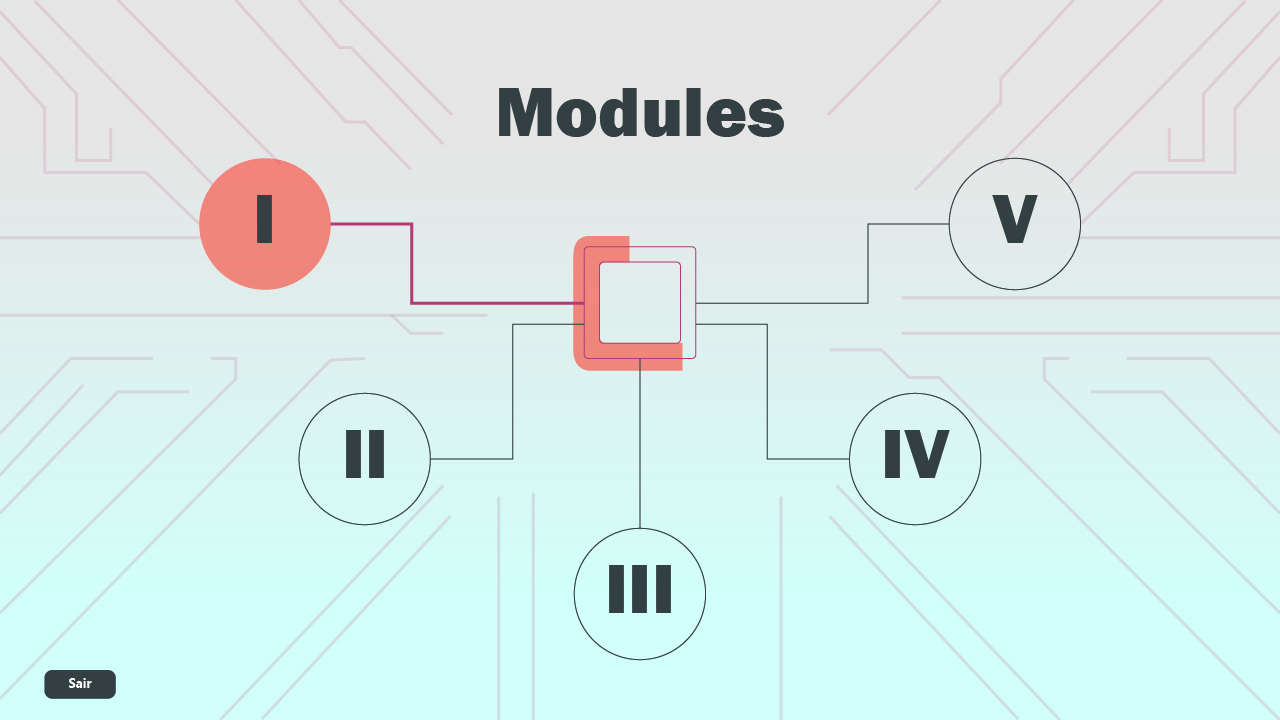
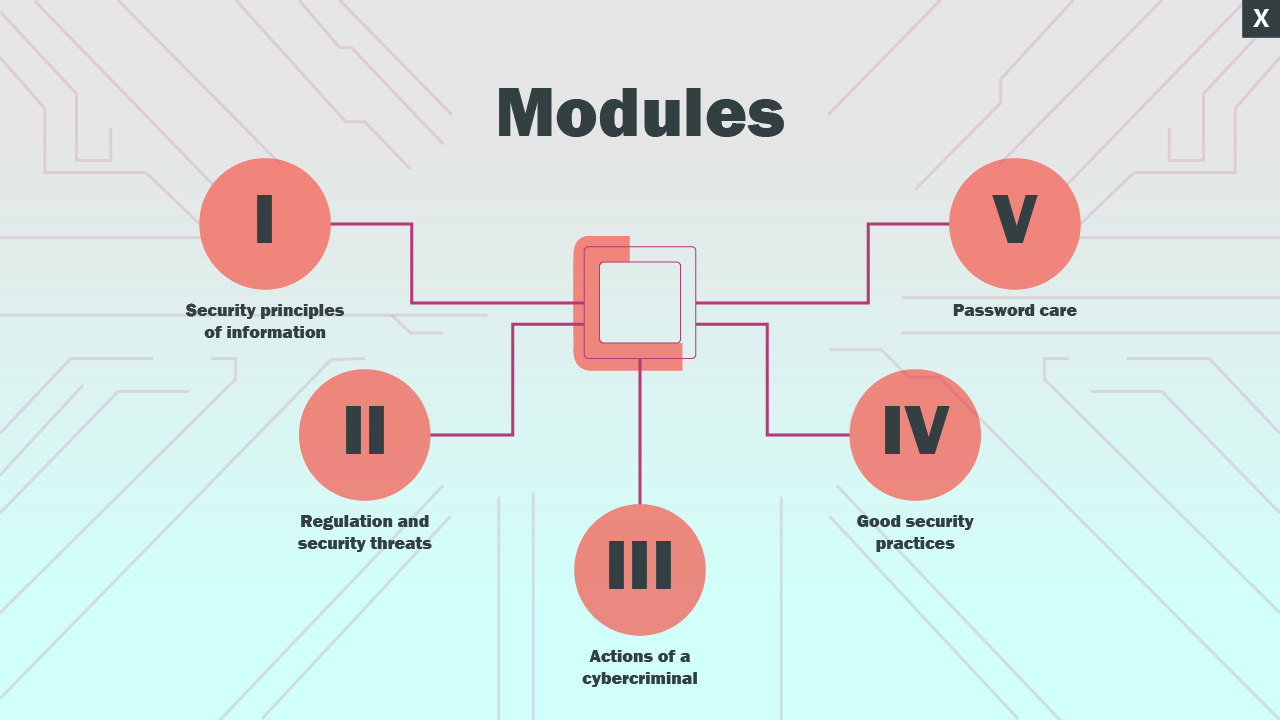
add module 01

diff --git a/TrinketDigitalSecurity/F_Menu_Modules.Designer.cs b/TrinketDigitalSecurity/F_Menu_Modules.Designer.cs
@@ -1,6 +1,6 @@
 namespace TrinketDigitalSecurity
 {
-    partial class F_Intro
+    partial class F_Menu_Modules
     {
         /// <summary>
         /// Required designer variable.
@@ -28,9 +28,26 @@
         /// </summary>
         private void InitializeComponent()
         {
+            System.ComponentModel.ComponentResourceManager resources = new System.ComponentModel.ComponentResourceManager(typeof(F_Menu_Modules));
+            this.btn_module_one = new System.Windows.Forms.Button();
             this.btn_exit = new System.Windows.Forms.Button();
-            this.btn_next = new System.Windows.Forms.Button();
             this.SuspendLayout();
+            // 
+            // btn_module_one
+            // 
+            this.btn_module_one.BackColor = System.Drawing.Color.Transparent;
+            this.btn_module_one.Cursor = System.Windows.Forms.Cursors.Hand;
+            this.btn_module_one.FlatAppearance.BorderSize = 0;
+            this.btn_module_one.FlatAppearance.MouseDownBackColor = System.Drawing.Color.Transparent;
+            this.btn_module_one.FlatAppearance.MouseOverBackColor = System.Drawing.Color.Transparent;
+            this.btn_module_one.FlatStyle = System.Windows.Forms.FlatStyle.Flat;
+            this.btn_module_one.ForeColor = System.Drawing.Color.Transparent;
+            this.btn_module_one.Location = new System.Drawing.Point(193, 151);
+            this.btn_module_one.Name = "btn_module_one";
+            this.btn_module_one.Size = new System.Drawing.Size(146, 149);
+            this.btn_module_one.TabIndex = 4;
+            this.btn_module_one.UseVisualStyleBackColor = false;
+            this.btn_module_one.Click += new System.EventHandler(this.btn_module_one_Click);
             // 
             // btn_exit
             // 
@@ -41,39 +58,23 @@
             this.btn_exit.FlatAppearance.MouseOverBackColor = System.Drawing.Color.Transparent;
             this.btn_exit.FlatStyle = System.Windows.Forms.FlatStyle.Flat;
             this.btn_exit.ForeColor = System.Drawing.Color.Transparent;
-            this.btn_exit.Location = new System.Drawing.Point(1235, 1);
+            this.btn_exit.Location = new System.Drawing.Point(1236, 0);
             this.btn_exit.Name = "btn_exit";
             this.btn_exit.Size = new System.Drawing.Size(45, 41);
-            this.btn_exit.TabIndex = 2;
+            this.btn_exit.TabIndex = 5;
             this.btn_exit.UseVisualStyleBackColor = false;
             this.btn_exit.Click += new System.EventHandler(this.btn_exit_Click);
             // 
-            // btn_next
-            // 
-            this.btn_next.BackColor = System.Drawing.Color.Transparent;
-            this.btn_next.Cursor = System.Windows.Forms.Cursors.Hand;
-            this.btn_next.FlatAppearance.BorderSize = 0;
-            this.btn_next.FlatAppearance.MouseDownBackColor = System.Drawing.Color.Transparent;
-            this.btn_next.FlatAppearance.MouseOverBackColor = System.Drawing.Color.Transparent;
-            this.btn_next.FlatStyle = System.Windows.Forms.FlatStyle.Flat;
-            this.btn_next.ForeColor = System.Drawing.Color.Transparent;
-            this.btn_next.Location = new System.Drawing.Point(820, 601);
-            this.btn_next.Name = "btn_next";
-            this.btn_next.Size = new System.Drawing.Size(174, 51);
-            this.btn_next.TabIndex = 3;
-            this.btn_next.UseVisualStyleBackColor = false;
-            this.btn_next.Click += new System.EventHandler(this.btn_next_Click);
-            // 
-            // F_Intro
+            // F_Menu_Modules
             // 
             this.AutoScaleDimensions = new System.Drawing.SizeF(7F, 15F);
             this.AutoScaleMode = System.Windows.Forms.AutoScaleMode.Font;
-            this.BackgroundImage = global::TrinketDigitalSecurity.Properties.Resources.Prancheta_2_100;
             this.ClientSize = new System.Drawing.Size(1280, 720);
-            this.Controls.Add(this.btn_next);
             this.Controls.Add(this.btn_exit);
+            this.Controls.Add(this.btn_module_one);
             this.FormBorderStyle = System.Windows.Forms.FormBorderStyle.None;
-            this.Name = "F_Intro";
+            this.Icon = ((System.Drawing.Icon)(resources.GetObject("$this.Icon")));
+            this.Name = "F_Menu_Modules";
             this.StartPosition = System.Windows.Forms.FormStartPosition.CenterScreen;
             this.Text = "F_Menu_Modules";
             this.ResumeLayout(false);
@@ -82,7 +83,7 @@
 
         #endregion
 
+        private Button btn_module_one;
         private Button btn_exit;
-        private Button btn_next;
     }
 }

diff --git a/TrinketDigitalSecurity/F_M_One_01.Designer.cs b/TrinketDigitalSecurity/F_M_One_01.Designer.cs
@@ -1,6 +1,6 @@
 namespace TrinketDigitalSecurity
 {
-    partial class F_Intro
+    partial class F_M_One_01
     {
         /// <summary>
         /// Required designer variable.
@@ -29,6 +29,7 @@
         private void InitializeComponent()
         {
             this.btn_exit = new System.Windows.Forms.Button();
+            this.btn_back = new System.Windows.Forms.Button();
             this.btn_next = new System.Windows.Forms.Button();
             this.SuspendLayout();
             // 
@@ -41,12 +42,28 @@
             this.btn_exit.FlatAppearance.MouseOverBackColor = System.Drawing.Color.Transparent;
             this.btn_exit.FlatStyle = System.Windows.Forms.FlatStyle.Flat;
             this.btn_exit.ForeColor = System.Drawing.Color.Transparent;
-            this.btn_exit.Location = new System.Drawing.Point(1235, 1);
+            this.btn_exit.Location = new System.Drawing.Point(1235, 0);
             this.btn_exit.Name = "btn_exit";
             this.btn_exit.Size = new System.Drawing.Size(45, 41);
-            this.btn_exit.TabIndex = 2;
+            this.btn_exit.TabIndex = 6;
             this.btn_exit.UseVisualStyleBackColor = false;
             this.btn_exit.Click += new System.EventHandler(this.btn_exit_Click);
+            // 
+            // btn_back
+            // 
+            this.btn_back.BackColor = System.Drawing.Color.Transparent;
+            this.btn_back.Cursor = System.Windows.Forms.Cursors.Hand;
+            this.btn_back.FlatAppearance.BorderSize = 0;
+            this.btn_back.FlatAppearance.MouseDownBackColor = System.Drawing.Color.Transparent;
+            this.btn_back.FlatAppearance.MouseOverBackColor = System.Drawing.Color.Transparent;
+            this.btn_back.FlatStyle = System.Windows.Forms.FlatStyle.Flat;
+            this.btn_back.ForeColor = System.Drawing.Color.Transparent;
+            this.btn_back.Location = new System.Drawing.Point(12, 316);
+            this.btn_back.Name = "btn_back";
+            this.btn_back.Size = new System.Drawing.Size(55, 95);
+            this.btn_back.TabIndex = 7;
+            this.btn_back.UseVisualStyleBackColor = false;
+            this.btn_back.Click += new System.EventHandler(this.btn_back_Click);
             // 
             // btn_next
             // 
@@ -57,25 +74,26 @@
             this.btn_next.FlatAppearance.MouseOverBackColor = System.Drawing.Color.Transparent;
             this.btn_next.FlatStyle = System.Windows.Forms.FlatStyle.Flat;
             this.btn_next.ForeColor = System.Drawing.Color.Transparent;
-            this.btn_next.Location = new System.Drawing.Point(820, 601);
+            this.btn_next.Location = new System.Drawing.Point(1190, 316);
             this.btn_next.Name = "btn_next";
-            this.btn_next.Size = new System.Drawing.Size(174, 51);
-            this.btn_next.TabIndex = 3;
+            this.btn_next.Size = new System.Drawing.Size(55, 95);
+            this.btn_next.TabIndex = 8;
             this.btn_next.UseVisualStyleBackColor = false;
             this.btn_next.Click += new System.EventHandler(this.btn_next_Click);
             // 
-            // F_Intro
+            // F_M_One_01
             // 
             this.AutoScaleDimensions = new System.Drawing.SizeF(7F, 15F);
             this.AutoScaleMode = System.Windows.Forms.AutoScaleMode.Font;
-            this.BackgroundImage = global::TrinketDigitalSecurity.Properties.Resources.Prancheta_2_100;
+            this.BackgroundImage = global::TrinketDigitalSecurity.Properties.Resources.Prancheta_4_100;
             this.ClientSize = new System.Drawing.Size(1280, 720);
             this.Controls.Add(this.btn_next);
+            this.Controls.Add(this.btn_back);
             this.Controls.Add(this.btn_exit);
             this.FormBorderStyle = System.Windows.Forms.FormBorderStyle.None;
-            this.Name = "F_Intro";
+            this.Name = "F_M_One_01";
             this.StartPosition = System.Windows.Forms.FormStartPosition.CenterScreen;
-            this.Text = "F_Menu_Modules";
+            this.Text = "F_M_One_01";
             this.ResumeLayout(false);
 
         }
@@ -83,6 +101,7 @@
         #endregion
 
         private Button btn_exit;
+        private Button btn_back;
         private Button btn_next;
     }
 }

diff --git a/TrinketDigitalSecurity/F_M_One_02.Designer.cs b/TrinketDigitalSecurity/F_M_One_02.Designer.cs
@@ -1,0 +1,39 @@
+namespace TrinketDigitalSecurity
+{
+    partial class F_M_One_02
+    {
+        /// <summary>
+        /// Required designer variable.
+        /// </summary>
+        private System.ComponentModel.IContainer components = null;
+
+        /// <summary>
+        /// Clean up any resources being used.
+        /// </summary>
+        /// <param name="disposing">true if managed resources should be disposed; otherwise, false.</param>
+        protected override void Dispose(bool disposing)
+        {
+            if (disposing && (components != null))
+            {
+                components.Dispose();
+            }
+            base.Dispose(disposing);
+        }
+
+        #region Windows Form Designer generated code
+
+        /// <summary>
+        /// Required method for Designer support - do not modify
+        /// the contents of this method with the code editor.
+        /// </summary>
+        private void InitializeComponent()
+        {
+            this.components = new System.ComponentModel.Container();
+            this.AutoScaleMode = System.Windows.Forms.AutoScaleMode.Font;
+            this.ClientSize = new System.Drawing.Size(800, 450);
+            this.Text = "F_M_One_02";
+        }
+
+        #endregion
+    }
+}

diff --git a/TrinketDigitalSecurity/Properties/Resources.Designer.cs b/TrinketDigitalSecurity/Properties/Resources.Designer.cs
@@ -79,5 +79,25 @@ namespace TrinketDigitalSecurity.Properties {
                 return ((System.Drawing.Bitmap)(obj));
             }
         }
+        
+        /// <summary>
+        ///   Looks up a localized resource of type System.Drawing.Bitmap.
+        /// </summary>
+        internal static System.Drawing.Bitmap Prancheta_39_100 {
+            get {
+                object obj = ResourceManager.GetObject("Prancheta 39-100", resourceCulture);
+                return ((System.Drawing.Bitmap)(obj));
+            }
+        }
+        
+        /// <summary>
+        ///   Looks up a localized resource of type System.Drawing.Bitmap.
+        /// </summary>
+        internal static System.Drawing.Bitmap Prancheta_4_100 {
+            get {
+                object obj = ResourceManager.GetObject("Prancheta 4-100", resourceCulture);
+                return ((System.Drawing.Bitmap)(obj));
+            }
+        }
     }
 }

diff --git a/TrinketDigitalSecurity/F_Welcome.Designer.cs b/TrinketDigitalSecurity/F_Welcome.Designer.cs
@@ -28,6 +28,7 @@
         /// </summary>
         private void InitializeComponent()
         {
+            System.ComponentModel.ComponentResourceManager resources = new System.ComponentModel.ComponentResourceManager(typeof(F_Welcome));
             this.btn_enter = new System.Windows.Forms.Button();
             this.btn_exit = new System.Windows.Forms.Button();
             this.SuspendLayout();
@@ -73,6 +74,7 @@
             this.Controls.Add(this.btn_exit);
             this.Controls.Add(this.btn_enter);
             this.FormBorderStyle = System.Windows.Forms.FormBorderStyle.None;
+            this.Icon = ((System.Drawing.Icon)(resources.GetObject("$this.Icon")));
             this.Name = "F_Welcome";
             this.StartPosition = System.Windows.Forms.FormStartPosition.CenterScreen;
             this.Text = "TrinketDigitalSecurity";

diff --git a/TrinketDigitalSecurity/F_M_One_01.cs b/TrinketDigitalSecurity/F_M_One_01.cs
@@ -1,8 +1,8 @@
 namespace TrinketDigitalSecurity
 {
-    public partial class F_Intro : Form
+    public partial class F_M_One_01 : Form
     {
-        public F_Intro()
+        public F_M_One_01()
         {
             InitializeComponent();
         }
@@ -12,10 +12,14 @@
             Close();
         }
 
+        private void btn_back_Click(object sender, EventArgs e)
+        {
+            Close();
+        }
+
         private void btn_next_Click(object sender, EventArgs e)
         {
-            F_Menu_Modules f_Menu_Modules = new F_Menu_Modules();
-            f_Menu_Modules.ShowDialog(this);
+
         }
     }
 }

diff --git a/TrinketDigitalSecurity/F_Menu_Modules.cs b/TrinketDigitalSecurity/F_Menu_Modules.cs
@@ -1,0 +1,21 @@
+namespace TrinketDigitalSecurity
+{
+    public partial class F_Menu_Modules : Form
+    {
+        public F_Menu_Modules()
+        {
+            InitializeComponent();
+        }
+
+        private void btn_exit_Click(object sender, EventArgs e)
+        {
+            Close();
+        }
+
+        private void btn_module_one_Click(object sender, EventArgs e)
+        {
+            F_M_One_01 f_M_One_01 = new F_M_One_01();
+            f_M_One_01.ShowDialog();
+        }
+    }
+}

diff --git a/TrinketDigitalSecurity/F_M_One_02.cs b/TrinketDigitalSecurity/F_M_One_02.cs
@@ -1,0 +1,20 @@
+using System;
+using System.Collections.Generic;
+using System.ComponentModel;
+using System.Data;
+using System.Drawing;
+using System.Linq;
+using System.Text;
+using System.Threading.Tasks;
+using System.Windows.Forms;
+
+namespace TrinketDigitalSecurity
+{
+    public partial class F_M_One_02 : Form
+    {
+        public F_M_One_02()
+        {
+            InitializeComponent();
+        }
+    }
+}
